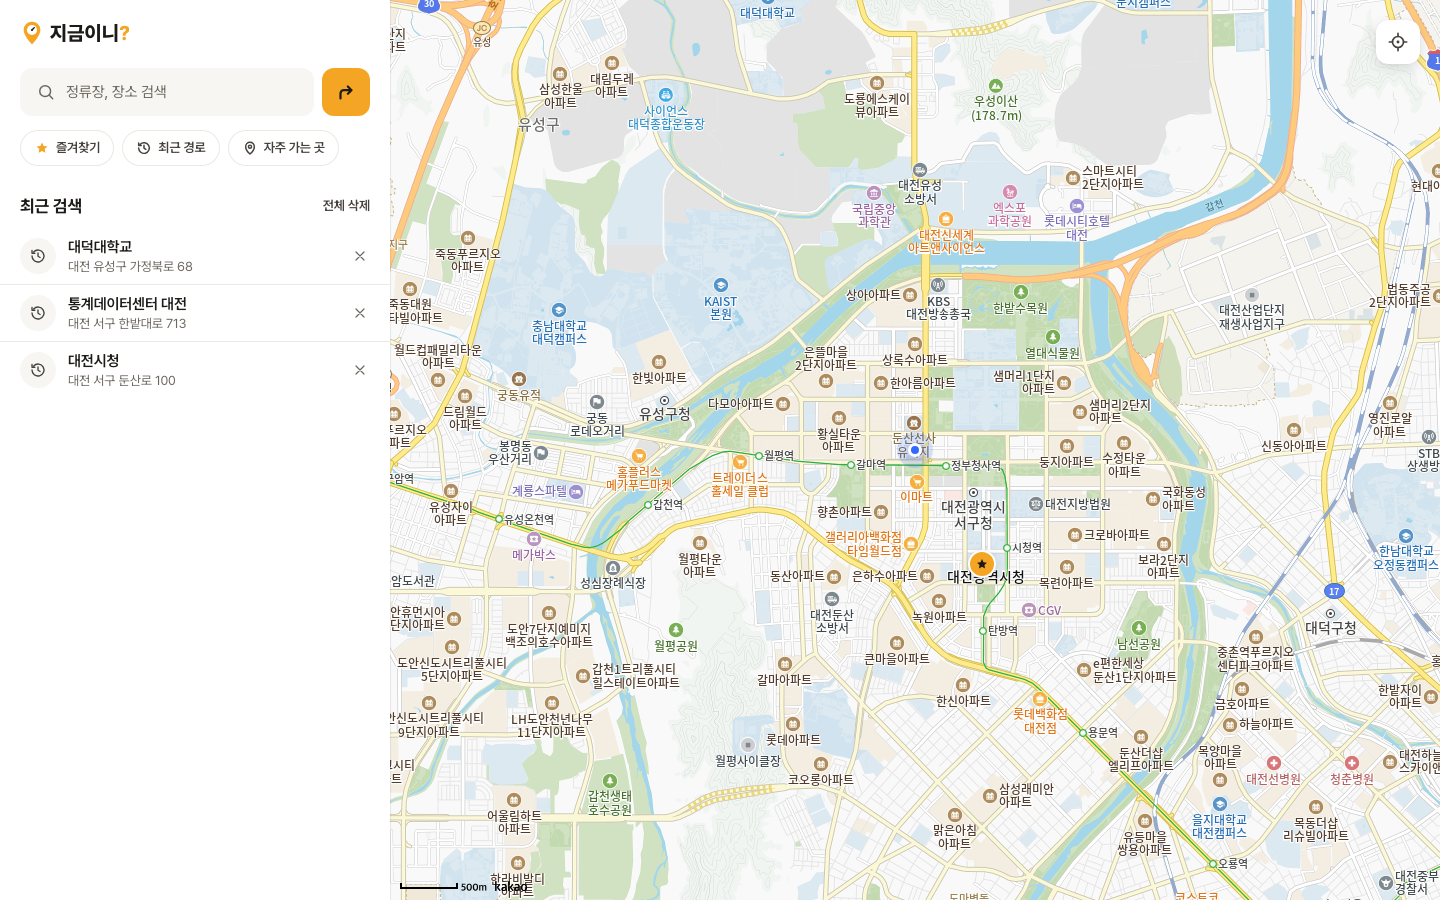
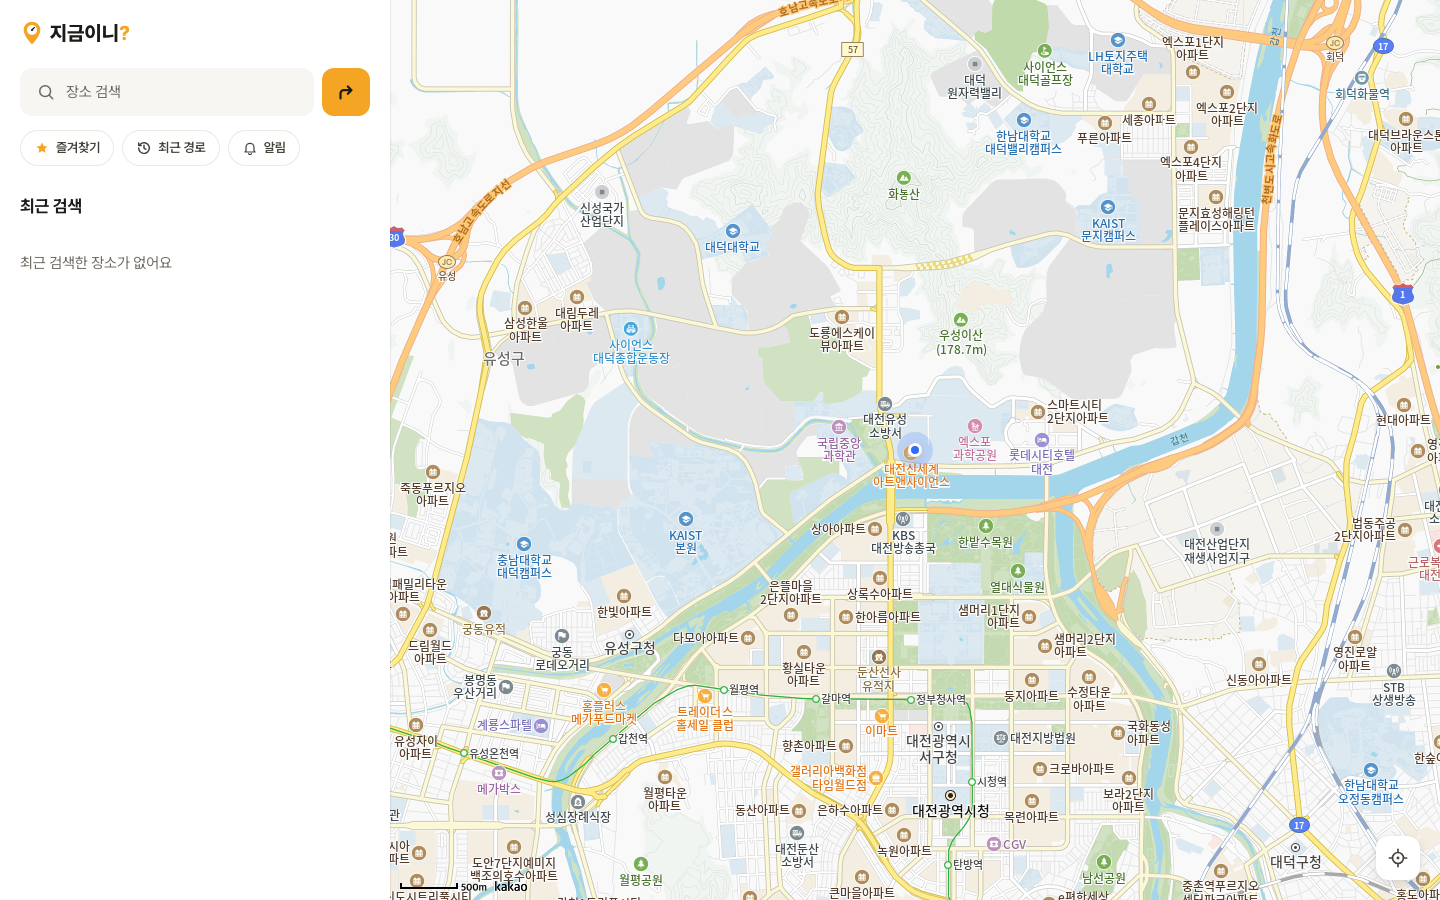
feat: move locate button to bottom right and remove unused code
- Locate button floats above the bottom sheet on mobile, bottom right on desktop
- Remove create-next-app svgs, unused bus/radius tokens, deleteSubscription, NotifyButton compact and MapControlButton pressed branches
- README: locate button position, transfer chance, 15/20 min lead buckets, new home screenshots

diff --git a/src/components/NotifyButton.tsx b/src/components/NotifyButton.tsx
@@ -14,7 +14,7 @@ const UNAVAILABLE_HINT = "지금은 출발 알림을 보낼 수 없어요";
 const DESKTOP_HINT = "알림은 이 컴퓨터로 와요";
 const HINT = "truncate text-xs text-fg-muted";
 
-type Variant = "block" | "primary" | "compact";
+type Variant = "block" | "primary";
 
 const LABEL: Record<NotifyState, string> = {
   idle: "출발 알림 받기",
@@ -38,18 +38,12 @@ const TONE: Record<Variant, Record<NotifyState, string>> = {
     denied: "h-control rounded-md bg-surface-muted px-5 text-fg-muted",
     unavailable: "h-control rounded-md bg-surface-muted px-5 text-fg-muted",
   },
-  compact: {
-    idle: "h-8 rounded-full px-3 text-fg-secondary hover:bg-action-secondary",
-    on: "h-8 rounded-full bg-brand-soft px-3 text-brand-ink",
-    denied: "h-8 rounded-full px-3 text-fg-muted",
-    unavailable: "h-8 rounded-full px-3 text-fg-muted",
-  },
 };
 
 export function NotifyButton({
   state,
   onChange,
-  variant = "compact",
+  variant = "block",
 }: {
   state: NotifyState;
   onChange: (next: NotifyState) => void;
@@ -67,11 +61,9 @@ export function NotifyButton({
         disabled={state === "unavailable"}
         aria-pressed={state === "on"}
         aria-describedby={hint ? hintId : undefined}
-        className={`relative inline-flex shrink-0 items-center justify-center gap-1.5 text-sm font-semibold whitespace-nowrap ${
-          variant === "compact" ? "before:absolute before:-inset-1.5" : ""
-        } ${TONE[variant][state]}`}
+        className={`inline-flex shrink-0 items-center justify-center gap-1.5 text-sm font-semibold whitespace-nowrap ${TONE[variant][state]}`}
       >
-        <Icon size={variant === "compact" ? 15 : 17} className="shrink-0" />
+        <Icon size={17} className="shrink-0" />
         {LABEL[state]}
       </button>
       {hint && (

diff --git a/src/components/MapLayout.tsx b/src/components/MapLayout.tsx
@@ -22,7 +22,7 @@ export function MapLayout({
       <div className="absolute inset-0 lg:relative lg:col-start-2 lg:row-start-1 lg:h-dvh">
         {map}
         {controls && (
-          <div className="absolute right-3 top-(--controls-top,9rem) z-10 flex flex-col gap-2 lg:right-5 lg:top-5">
+          <div className="absolute right-3 bottom-[calc(var(--map-sheet-offset,0px)+var(--map-sheet-h,0px)+0.75rem)] z-10 flex flex-col gap-2 transition-[bottom] duration-(--map-sheet-motion,0ms) ease-sheet lg:right-5 lg:bottom-5 lg:transition-none">
             {controls}
           </div>
         )}
@@ -41,12 +41,10 @@ export function MapLayout({
 
 function MapControlButton({
   label,
-  pressed,
   onClick,
   children,
 }: {
   label: string;
-  pressed?: boolean;
   onClick?: () => void;
   children: ReactNode;
 }) {
@@ -54,13 +52,8 @@ function MapControlButton({
     <button
       type="button"
       aria-label={label}
-      aria-pressed={pressed}
       onClick={onClick}
-      className={`flex size-11 items-center justify-center rounded-md shadow-float transition-colors ${
-        pressed
-          ? "bg-brand-soft text-brand-ink"
-          : "bg-surface text-fg-secondary hover:bg-surface-muted active:bg-skeleton"
-      }`}
+      className="flex size-11 items-center justify-center rounded-md bg-surface text-fg-secondary shadow-float transition-colors hover:bg-surface-muted active:bg-skeleton"
     >
       {children}
     </button>

diff --git a/src/components/BottomSheet.tsx b/src/components/BottomSheet.tsx
@@ -1,6 +1,6 @@
 "use client";
 
-import { useRef, useState, type CSSProperties, type ReactNode, type PointerEvent } from "react";
+import { useEffect, useRef, useState, type CSSProperties, type ReactNode, type PointerEvent } from "react";
 
 interface BottomSheetProps {
   children: ReactNode;
@@ -34,6 +34,26 @@ export function BottomSheet({
   const sheetRef = useRef<HTMLElement>(null);
 
   const height = dragHeight !== null ? `${dragHeight}px` : `${snaps[snap] * 100}dvh`;
+  const dragging = dragHeight !== null;
+
+  // 지도 컨트롤(현재 위치 버튼)이 시트 바로 위에 뜨도록 높이를 문서 루트 변수로 알린다 (MapLayout이 읽음).
+  // 끌는 동안에는 버튼이 뒤처지지 않게 애니메이션을 끈다.
+  useEffect(() => {
+    const root = document.documentElement.style;
+    root.setProperty("--map-sheet-h", height);
+    root.setProperty("--map-sheet-offset", `${bottomOffset}px`);
+    root.setProperty("--map-sheet-motion", dragging ? "0ms" : "var(--motion-sheet)");
+  }, [height, bottomOffset, dragging]);
+
+  useEffect(
+    () => () => {
+      const root = document.documentElement.style;
+      root.removeProperty("--map-sheet-h");
+      root.removeProperty("--map-sheet-offset");
+      root.removeProperty("--map-sheet-motion");
+    },
+    [],
+  );
 
   function onPointerDown(e: PointerEvent<HTMLButtonElement>) {
     const el = sheetRef.current;

diff --git a/src/styles/tokens.css b/src/styles/tokens.css
@@ -39,12 +39,6 @@
 
   /* 대전 시내버스 노선 색 */
   --palette-route-express: #e2382f;
-  --palette-route-trunk: #2f66dc;
-  --palette-route-branch: #1f9a45;
-  --palette-route-village: #5f8f0e;
-  --palette-route-outer: #c77300;
-  /* 서울 순환 노란색. 흰 글자는 대비가 낮아 글자는 진한 색을 쓴다 */
-  --palette-route-circular: #f2b70a;
 
   --palette-map-ground: #eef0ec;
   --palette-map-water: #cddff0;
@@ -99,13 +93,6 @@
   /* 이동 수단 (데이터 코딩 전용) */
   --color-walk: var(--palette-neutral-200);
   --color-walk-fg: var(--palette-neutral-600);
-  --color-bus-express: var(--palette-route-express);
-  --color-bus-trunk: var(--palette-route-trunk);
-  --color-bus-branch: var(--palette-route-branch);
-  --color-bus-village: var(--palette-route-village);
-  --color-bus-outer: var(--palette-route-outer);
-  --color-bus-wide: var(--palette-route-express);
-  --color-bus-circular: var(--palette-route-circular);
 
   --color-map-origin: var(--palette-green-600);
   --color-map-destination: var(--palette-route-express);
@@ -122,7 +109,6 @@
 
   /* radius: 카드·시트 lg, 버튼·입력 md, 작은 배지 sm, 칩·점 rounded-full */
   --radius-*: initial;
-  --radius-xs: 4px;
   --radius-sm: 8px;
   --radius-md: 12px;
   --radius-lg: 16px;

diff --git a/src/apis/push/client.ts b/src/apis/push/client.ts
@@ -109,12 +109,6 @@ export async function putSubscription(user: User, subscription: PushSubscription
   if (!res.ok) throw await failure(res);
 }
 
-// 404는 이미 지워진 것이므로 성공으로 본다
-export async function deleteSubscription(user: User, endpoint: string): Promise<void> {
-  const res = await request(user, "/push/subscription", jsonInit("DELETE", { endpoint }));
-  if (!res.ok && res.status !== 404) throw await failure(res);
-}
-
 export async function listAlerts(user: User): Promise<Alert[]> {
   const res = await request(user, "/alerts");
   if (!res.ok) throw await failure(res);

diff --git a/src/app/_components/HomeScreen.tsx b/src/app/_components/HomeScreen.tsx
@@ -4,7 +4,6 @@ import {
   useMemo,
   useRef,
   useState,
-  type CSSProperties,
   type ReactNode,
 } from "react";
 import { flushSync } from "react-dom";
@@ -348,7 +347,7 @@ export function HomeScreen() {
   const sheetKey = selectedPlace ? `place-${selectedPlace.id}-${placeOpenCount}` : locationState ? "location" : "idle";
 
   return (
-    <div style={{ "--controls-top": routeMode ? "8.5rem" : "7.25rem" } as CSSProperties}>
+    <div>
       <MapLayout
         map={
           <MapView

diff --git a/README.md b/README.md
@@ -36,7 +36,7 @@
 | :---: | :---: |
 | <img src="docs/readme/home-desktop.png" width="640" alt="지도 홈 (데스크톱)" /> | <img src="docs/readme/home-mobile.png" width="240" alt="지도 홈 (모바일)" /> |
 
-- 앱을 열면 **현재 위치를 중심으로** 지도가 보여요. 대전과 서울에서 쓸 수 있고, 두 도시 밖이면 대전이나 서울 지도로 옮길 수 있어요. 오른쪽 위 버튼으로 언제든 현재 위치로 돌아올 수 있어요.
+- 앱을 열면 **현재 위치를 중심으로** 지도가 보여요. 대전과 서울에서 쓸 수 있고, 두 도시 밖이면 대전이나 서울 지도로 옮길 수 있어요. 지도 오른쪽 아래 버튼(모바일은 아래 시트 바로 위)으로 언제든 현재 위치로 돌아올 수 있어요.
 - 즐겨찾기한 장소는 지도 위에 **주황색 별 마커**로 항상 표시돼요. 마커를 누르면 그 장소 카드가 열려요.
 - 로그인 화면 없이 처음 방문할 때 익명 계정이 만들어지고, 즐겨찾기는 그 계정에 저장돼서 새로고침하거나 앱을 다시 열어도 남아 있어요. 즐겨찾기는 50곳까지 저장할 수 있어요.
 
@@ -84,6 +84,8 @@
 - 출발 시각에는 **버스가 예측보다 일찍 오는 경우를 대비한 여유 시간**이 들어 있어요. 정류장별로 실제로 쌓은 도착 예측 오차 데이터(10번 중 9번은 놓치지 않는 기준)로 계산하고, 데이터가 부족한 정류장은 2분을 둬요.
 - 여유 시간은 **최소 1분, 최대 5분** 사이로 잡아요. 오차가 큰 정류장이라도 너무 일찍 나가라고 하지 않도록요.
 - 탈 정류장에 버스가 **몇 분 뒤, 몇 정류장 전**에 있는지도 함께 보여줘요. 버스는 지역별 공식 노선 색으로 표시돼요.
+- 환승이 있는 경로는 **"바로 환승 N%"**를 보여줘요. 환승 정류장에 쌓인 "버스가 얼마나 일찍 왔나" 데이터로 환승 버스를 바로 탈 확률을 계산하고, **확률이 80% 이상인 첫 버스**를 탈 버스로 잡아요.
+- 환승 정류장에 데이터가 없으면 확률은 보여주지 않고, 내린 뒤 **1분 이상 여유가 있는 첫 버스**로 잡아요.
 - 경로 카드를 누르면 바로 그 경로의 상세 화면으로 넘어가요.
 - 도착 정보가 몇 초 전 것인지 **"N초 전 정보"가 1초마다** 올라가고, 새로고침 버튼으로 바로 다시 받을 수 있어요. 불러오지 못하면 **다시 시도** 버튼이 뜨고, 다시 시도도 실패하면 토스트로 알려줘요.
 - 도착 빠른 순 / 도보 짧은 순 / 환승 적은 순으로 정렬할 수 있어요.
@@ -97,6 +99,7 @@
 | <img src="docs/readme/detail-desktop.png" width="640" alt="경로 상세 (데스크톱)" /> | <img src="docs/readme/detail-mobile.png" width="240" alt="경로 상세 (모바일)" /> |
 
 - 출발 전 대기 → 걷기 → 승차 정류장 → 하차 → 도착까지 **시각과 함께 한 줄 타임라인**으로 보여줘요.
+- 환승 구간마다 바로 환승 확률을 따로 보여주고, 환승이 두 번 이상이면 모두 바로 탈 확률도 함께 보여줘요.
 - 지도에는 걷는 구간과 버스 구간이 노선 색으로 그려져요.
 - 위쪽 탭으로 다른 경로로 바로 바꿔 볼 수 있어요.
 
@@ -138,5 +141,5 @@
 - **공공 API 중계 (Next.js Route Handler on Vercel)**: 카카오 길찾기·장소 검색, 대전 BIS·TAGO, 서울 버스 API를 서버에서 호출해 API 키가 브라우저로 나가지 않아요. 지역마다 같은 모양의 함수(정류장 찾기 · 도착 정보 받기)로 나눠, 서울을 더할 때 화면 코드는 바꾸지 않았어요.
 - **Cloudflare Worker + D1**: Firebase 익명 로그인의 ID 토큰을 jose로 검증하고, 즐겨찾기·알림·푸시 구독을 D1에 저장해요.
 - **AlertMonitor (Durable Object)**: 알림마다 하나씩 떠서 도착 정보를 다시 받고, 화면과 **같은 출발 시각 계산 함수**(`src/shared`)로 나가야 할 시각을 다시 계산해 2분 전에 Web Push(VAPID)를 보내요.
-- **StopMonitor (Durable Object) + Cron**: 정류장마다 1분 간격으로 "예측 도착 vs 실제 도착" 오차를 모아 정류장별 히스토그램으로 D1에 쌓아요. 매일 05:20 Cron이 대전 정류장 중 그날 지켜볼 60곳을 골라 돌아가며 수집해요.
+- **StopMonitor (Durable Object) + Cron**: 정류장마다 1분 간격으로 "예측 도착 vs 실제 도착" 오차를 모아 정류장별 히스토그램으로 D1에 쌓아요. 도착 3·5·10분 전 예측은 출발 여유 계산에, 15·20분 전 예측은 환승처럼 먼 버스를 보기 위해 모으고 있어요. 매일 05:20 Cron이 대전 정류장 중 그날 지켜볼 60곳을 골라 돌아가며 수집해요.
 - **여유 시간**: 정류장별 오차에서 버스가 일찍 오는 쪽 P10(10번 중 9번은 놓치지 않는 기준)을 쓰고, 데이터가 100건 미만인 정류장은 2분을 둬요.
